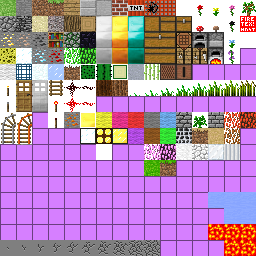
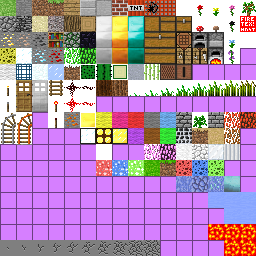
Final 1.5.0 stuff
* Fixed some bugs
* Added new menu backgrounds
* Fixed some menu stuff
* Added coral, azure and aquamarine

Changed region(s): [[0.6875, 0.625, 0.9375, 0.75], [0.375, 0.625, 0.5625, 0.6875]]

diff --git a/net/minecraft/src/WorldGenAzure.java b/net/minecraft/src/WorldGenAzure.java
@@ -1,0 +1,52 @@
+package net.minecraft.src;
+
+import java.util.Random;
+
+public class WorldGenAzure extends WorldGenerator {
+	private int clayBlockId = Block.azure.blockID;
+	private int numberOfBlocks;
+
+	public WorldGenAzure(int var1) {
+		this.numberOfBlocks = var1;
+	}
+
+	public boolean generate(World var1, Random var2, int var3, int var4, int var5) {
+		if(var1.getBlockMaterial(var3, var4, var5) != Material.water) {
+			return false;
+		} else {
+			float var6 = var2.nextFloat() * (float)Math.PI;
+			double var7 = (double)((float)(var3 + 8) + MathHelper.sin(var6) * (float)this.numberOfBlocks / 8.0F);
+			double var9 = (double)((float)(var3 + 8) - MathHelper.sin(var6) * (float)this.numberOfBlocks / 8.0F);
+			double var11 = (double)((float)(var5 + 8) + MathHelper.cos(var6) * (float)this.numberOfBlocks / 8.0F);
+			double var13 = (double)((float)(var5 + 8) - MathHelper.cos(var6) * (float)this.numberOfBlocks / 8.0F);
+			double var15 = (double)(var4 + var2.nextInt(3) + 2);
+			double var17 = (double)(var4 + var2.nextInt(3) + 2);
+
+			for(int var19 = 0; var19 <= this.numberOfBlocks; ++var19) {
+				double var20 = var7 + (var9 - var7) * (double)var19 / (double)this.numberOfBlocks;
+				double var22 = var15 + (var17 - var15) * (double)var19 / (double)this.numberOfBlocks;
+				double var24 = var11 + (var13 - var11) * (double)var19 / (double)this.numberOfBlocks;
+				double var26 = var2.nextDouble() * (double)this.numberOfBlocks / 16.0D;
+				double var28 = (double)(MathHelper.sin((float)var19 * (float)Math.PI / (float)this.numberOfBlocks) + 1.0F) * var26 + 1.0D;
+				double var30 = (double)(MathHelper.sin((float)var19 * (float)Math.PI / (float)this.numberOfBlocks) + 1.0F) * var26 + 1.0D;
+
+				for(int var32 = (int)(var20 - var28 / 2.0D); var32 <= (int)(var20 + var28 / 2.0D); ++var32) {
+					for(int var33 = (int)(var22 - var30 / 2.0D); var33 <= (int)(var22 + var30 / 2.0D); ++var33) {
+						for(int var34 = (int)(var24 - var28 / 2.0D); var34 <= (int)(var24 + var28 / 2.0D); ++var34) {
+							double var35 = ((double)var32 + 0.5D - var20) / (var28 / 2.0D);
+							double var37 = ((double)var33 + 0.5D - var22) / (var30 / 2.0D);
+							double var39 = ((double)var34 + 0.5D - var24) / (var28 / 2.0D);
+							if(var35 * var35 + var37 * var37 + var39 * var39 < 1.0D) {
+								if(var1.getBlockId(var32, var33, var34) == Block.sand.blockID) {
+									var1.setBlock(var32, var33, var34, var2.nextInt(5) == 0? Block.aquamarineOre.blockID : this.clayBlockId);
+								}
+							}
+						}
+					}
+				}
+			}
+
+			return true;
+		}
+	}
+}

diff --git a/net/minecraft/src/Block.java b/net/minecraft/src/Block.java
@@ -125,6 +125,16 @@ public class Block {
 	public static final Block cobbleMarble = (new Block(103, Block.blockFlint.blockIndexInTexture + 17, Material.rock)).setHardness(1.5F).setResistance(10.0F).setStepSound(soundStoneFootstep);
 	public static final Block marble = (new BlockStone(104, Block.blockFlint.blockIndexInTexture + 16, Block.cobbleMarble.blockID)).setHardness(1.5F).setResistance(10.0F).setStepSound(soundStoneFootstep);
 	public static final Block marblePillar = (new BlockMarblePillar(105)).setHardness(1.5F).setResistance(10.0F).setStepSound(soundStoneFootstep);
+	public static final Block coralRed = (new Block(106, Block.marble.blockIndexInTexture + 16, Material.leaves)).setStepSound(soundGrassFootstep).setHardness(.2f);
+	public static final Block coralBlue = (new Block(107, Block.marble.blockIndexInTexture + 17, Material.leaves)).setStepSound(soundGrassFootstep).setHardness(.2f);
+	public static final Block coralGreen = (new Block(108, Block.marble.blockIndexInTexture + 18, Material.leaves)).setStepSound(soundGrassFootstep).setHardness(.2f);
+	public static final Block cobbleAzure =  (new Block(109, Block.coralRed.blockIndexInTexture + 17, Material.rock)).setHardness(1.5F).setResistance(10.0F).setStepSound(soundStoneFootstep);
+	public static final Block azure = (new BlockStone(110, Block.coralRed.blockIndexInTexture + 16, Block.cobbleAzure.blockID)).setHardness(1.5F).setResistance(10.0F).setStepSound(soundStoneFootstep);
+	public static final Block aquamarineOre = (new BlockOre(111, Block.coralRed.blockIndexInTexture + 18)).setHardness(3.0F).setResistance(1.5F).setStepSound(soundStoneFootstep);
+	public static final Block corallightRed = (new Block(112, Block.coralRed.blockIndexInTexture -5, Material.leaves)).setStepSound(soundGrassFootstep).setHardness(.2f).setLightValue(1.0F);
+	public static final Block corallightGreen = (new Block(113, Block.coralRed.blockIndexInTexture -4, Material.leaves)).setStepSound(soundGrassFootstep).setHardness(.2f).setLightValue(1.0F);
+	public static final Block corallightBlue = (new Block(114, Block.coralRed.blockIndexInTexture -3, Material.leaves)).setStepSound(soundGrassFootstep).setHardness(.2f).setLightValue(1.0F);
+	public static final Block blockAquamarine = (new Block(115, Block.aquamarineOre.blockIndexInTexture + 1, Material.iron)).setHardness(3.0F).setResistance(10.0F).setStepSound(soundMetalFootstep);
 	public int blockIndexInTexture;
 	public final int blockID;
 	protected float hardness;

diff --git a/net/minecraft/src/ItemPickaxe.java b/net/minecraft/src/ItemPickaxe.java
@@ -1,7 +1,7 @@
 package net.minecraft.src;
 
 public class ItemPickaxe extends ItemTool {
-	private static Block[] blocksEffectiveAgainst = new Block[]{Block.cobblestone, Block.stairDouble, Block.stairSingle, Block.stone, Block.cobblestoneMossy, Block.oreIron, Block.blockSteel, Block.oreCoal, Block.blockGold, Block.oreGold, Block.oreDiamond, Block.blockDiamond, Block.ice, Block.stoneOvenIdle, Block.stoneOvenActive, Block.oreCopper, Block.brick, Block.brickStone, Block.stairCompactStone, Block.oreRedstone, Block.oreRedstoneGlowing, Block.doorSteel, Block.stairCompactStoneBrick, Block.stairCompactBrick, Block.pressurePlateStone, Block.brickSmooth, Block.stairCompactSmoothBrick, Block.blockCopper, Block.blockFlint, Block.marble, Block.cobbleMarble, Block.marblePillar};
+	private static Block[] blocksEffectiveAgainst = new Block[]{Block.cobblestone, Block.stairDouble, Block.stairSingle, Block.stone, Block.cobblestoneMossy, Block.oreIron, Block.blockSteel, Block.oreCoal, Block.blockGold, Block.oreGold, Block.oreDiamond, Block.blockDiamond, Block.ice, Block.stoneOvenIdle, Block.stoneOvenActive, Block.oreCopper, Block.brick, Block.brickStone, Block.stairCompactStone, Block.oreRedstone, Block.oreRedstoneGlowing, Block.doorSteel, Block.stairCompactStoneBrick, Block.stairCompactBrick, Block.pressurePlateStone, Block.brickSmooth, Block.stairCompactSmoothBrick, Block.blockCopper, Block.blockFlint, Block.marble, Block.cobbleMarble, Block.marblePillar, Block.aquamarineOre, Block.azure, Block.cobbleAzure, Block.blockAquamarine};
 	private int harvestLevel;
 
 	public ItemPickaxe(int var1, int var2) {

diff --git a/net/minecraft/src/WorldGenCoral.java b/net/minecraft/src/WorldGenCoral.java
@@ -1,0 +1,32 @@
+package net.minecraft.src;
+
+import java.util.Random;
+
+public class WorldGenCoral extends WorldGenerator {
+	private int coralBlockId = Block.coralRed.blockID;
+	private int numberOfBlocks;
+
+	public WorldGenCoral(int var1) {
+		this.numberOfBlocks = var1;
+	}
+
+	public boolean generate(World var1, Random var2, int var3, int var4, int var5) {
+		this.coralBlockId = var2.nextInt(3) + Block.coralRed.blockID;
+		for(int h = var4; h < var4+5; ++h) {
+			if(var1.getBlockMaterial(var3, h+1, var5) != Material.water || var1.getBlockMaterial(var3, var4-1, var5) == Material.water) {
+				return false;
+			} else {
+				for(int i = 0; i < h-var4; ++i) {
+				int xoff = 0, zoff = 0;
+					if(h-var4 > 1) {
+						xoff = var2.nextInt(3) - 1;
+						zoff = var2.nextInt(3) - 1;
+					}
+					var1.setBlock(var3+xoff, h, var5+zoff, (var2.nextInt(5) == 0? 1 : 0)*6 + coralBlockId);
+				}
+			}
+		}
+		
+		return true;
+	}
+}

diff --git a/net/minecraft/src/GuiSelectWorld.java b/net/minecraft/src/GuiSelectWorld.java
@@ -30,7 +30,8 @@ public class GuiSelectWorld extends GuiScreen {
 				}
 			} else {
 				String var4 = "World " + (var2 + 1);
-				if(getSaveName(var2+1) != null)
+				String name = getSaveName(var2+1);
+				if(name != null && name.length() > 0)
 					var4 = getSaveName(var2+1);
 				
 				long var5 = var3.getLong("SizeOnDisk");
@@ -47,7 +48,11 @@ public class GuiSelectWorld extends GuiScreen {
 	protected String getSaveName(int var1) {
 		File var2 = Minecraft.getMinecraftDir();
 		NBTTagCompound nbt = World.getLevelData(var2, "World" + var1);
-		return nbt != null && nbt.getString("WorldName") != "" ? nbt.getString("WorldName") : null;
+		return (nbt != null) ? nbt.getString("WorldName") : null;
+	}
+	
+	protected String getBaseSaveName(int var1) {
+		return "World" + var1;
 	}
 
 	public void initButtons() {

diff --git a/net/minecraft/src/ChunkProviderGenerate.java b/net/minecraft/src/ChunkProviderGenerate.java
@@ -318,6 +318,20 @@ public class ChunkProviderGenerate implements IChunkProvider {
 			var15 = var5 + this.rand.nextInt(16);
 			(new WorldGenClay(32)).generate(this.worldObj, this.rand, var13, var14, var15);
 		}
+		
+		for(var12 = 0; var12 < 10; ++var12) {
+			var13 = var4 + this.rand.nextInt(16);
+			var14 = this.rand.nextInt(128);
+			var15 = var5 + this.rand.nextInt(16);
+			(new WorldGenAzure(32)).generate(this.worldObj, this.rand, var13, var14, var15);
+		}
+		
+		for(var12 = 0; var12 < 10; ++var12) {
+			var13 = var4 + this.rand.nextInt(16);
+			var14 = this.rand.nextInt(128);
+			var15 = var5 + this.rand.nextInt(16);
+			(new WorldGenCoral(32)).generate(this.worldObj, this.rand, var13, var14, var15);
+		}
 
 		for(var12 = 0; var12 < 20; ++var12) {
 			var13 = var4 + this.rand.nextInt(16);

diff --git a/net/minecraft/src/TileEntityFurnace.java b/net/minecraft/src/TileEntityFurnace.java
@@ -173,6 +173,7 @@ public class TileEntityFurnace extends TileEntity implements IInventory {
 	}
 
 	private int getCookedItem(int var1) {
+		if(var1 == Block.cobbleAzure.blockID) return Block.azure.blockID;
 		if(var1 == Block.cobbleMarble.blockID) return Block.marble.blockID;
 		if(var1 == Item.egg.shiftedIndex) return Item.friedEgg.shiftedIndex;
 		if(var1 == Item.seeds.shiftedIndex || var1 == Item.wheat.shiftedIndex || var1 == Item.bread.shiftedIndex || var1 == Block.plantBlack.blockID || var1 == Block.plantBlue.blockID || var1 == Block.plantPink.blockID || var1 == Block.plantRed.blockID || var1 == Block.plantYellow.blockID || var1 == Block.sapling.blockID || var1 == Block.plantTea.blockID) return Item.fertilizer.shiftedIndex;

diff --git a/net/minecraft/src/GuiDeleteWorld.java b/net/minecraft/src/GuiDeleteWorld.java
@@ -24,7 +24,7 @@ public class GuiDeleteWorld extends GuiSelectWorld {
 	}
 	
 	public void selectWorld(int var1) {
-		String var2 = this.getSaveName(var1);
+		String var2 = this.getBaseSaveName(var1);
 		if(var2 != null) {
 			this.mc.displayGuiScreen(new GuiYesNo(this, "Are you sure you want to delete this world?", "\'" + var2 + "\' will be lost forever!", var1));
 		}
@@ -34,7 +34,7 @@ public class GuiDeleteWorld extends GuiSelectWorld {
 	public void deleteWorld(boolean var1, int var2) {
 		if(var1) {
 			File var3 = Minecraft.getMinecraftDir();
-			World.deleteWorld(var3, this.getSaveName(var2));
+			World.deleteWorld(var3, this.getBaseSaveName(var2));
 		}
 
 		this.mc.displayGuiScreen(this.parentScreen);

diff --git a/net/minecraft/src/EntityRenderer.java b/net/minecraft/src/EntityRenderer.java
@@ -525,7 +525,7 @@ public class EntityRenderer {
 			if(this.pointedEntity != null) {
 			}
 
-			this.setupFog(-1);
+			this.setupFog(0);
 			GL11.glEnable(GL11.GL_FOG);
 			var3.renderClouds(var1);
 			GL11.glDisable(GL11.GL_FOG);
@@ -733,7 +733,7 @@ public class EntityRenderer {
 		} else {
 			GL11.glFogi(GL11.GL_FOG_MODE, GL11.GL_LINEAR);
 			GL11.glFogf(GL11.GL_FOG_START, this.farPlaneDistance * 0.125F);
-			GL11.glFogf(GL11.GL_FOG_END, this.farPlaneDistance);
+			GL11.glFogf(GL11.GL_FOG_END, this.farPlaneDistance*0.75f);
 			if(var1 < 0) {
 				GL11.glFogf(GL11.GL_FOG_START, 0.0F);
 				GL11.glFogf(GL11.GL_FOG_END, this.farPlaneDistance * 0.75F);

diff --git a/net/minecraft/src/RecipesIngots.java b/net/minecraft/src/RecipesIngots.java
@@ -1,7 +1,7 @@
 package net.minecraft.src;
 
 public class RecipesIngots {
-	private Object[][] recipeItems = new Object[][]{{Block.blockGold, Item.ingotGold}, {Block.blockSteel, Item.ingotIron}, {Block.blockDiamond, Item.diamond}, {Block.blockCopper, Item.ingotCopper}};
+	private Object[][] recipeItems = new Object[][]{{Block.blockGold, Item.ingotGold}, {Block.blockSteel, Item.ingotIron}, {Block.blockDiamond, Item.diamond}, {Block.blockCopper, Item.ingotCopper}, {Block.blockAquamarine, Item.aquamarine}};
 
 	public void addRecipes(CraftingManager var1) {
 		for(int var2 = 0; var2 < this.recipeItems.length; ++var2) {

diff --git a/net/minecraft/src/BlockOre.java b/net/minecraft/src/BlockOre.java
@@ -8,7 +8,7 @@ public class BlockOre extends Block {
 	}
 
 	public int idDropped(int var1, Random var2) {
-		return this.blockID == Block.oreCoal.blockID ? Item.coal.shiftedIndex : (this.blockID == Block.oreDiamond.blockID ? Item.diamond.shiftedIndex : this.blockID);
+		return this.blockID == Block.oreCoal.blockID ? Item.coal.shiftedIndex : (this.blockID == Block.oreDiamond.blockID ? Item.diamond.shiftedIndex : (this.blockID == Block.aquamarineOre.blockID ? Item.aquamarine.shiftedIndex : this.blockID));
 	}
 
 	public int quantityDropped(Random var1) {

diff --git a/net/minecraft/src/GuiNewWorld.java b/net/minecraft/src/GuiNewWorld.java
@@ -162,11 +162,10 @@ public class GuiNewWorld extends GuiScreen {
 
 		if(var1 == Character.valueOf('\b') && this.worldName.length() > 0) 
 			this.worldName = this.worldName.substring(0, this.worldName.length() - 1);
-		if(var2 == 14 && this.worldName.length() > 0) {
+		else if(var2 == 14 && this.worldName.length() > 0) {
 			this.worldName = this.worldName.substring(0, this.worldName.length() - 1);
 		}
-
-		if(this.worldName.length() < maxLength) {
+		else if(this.worldName.length() < maxLength) {
 			this.worldName = this.worldName + var1;
 		}
 	}
